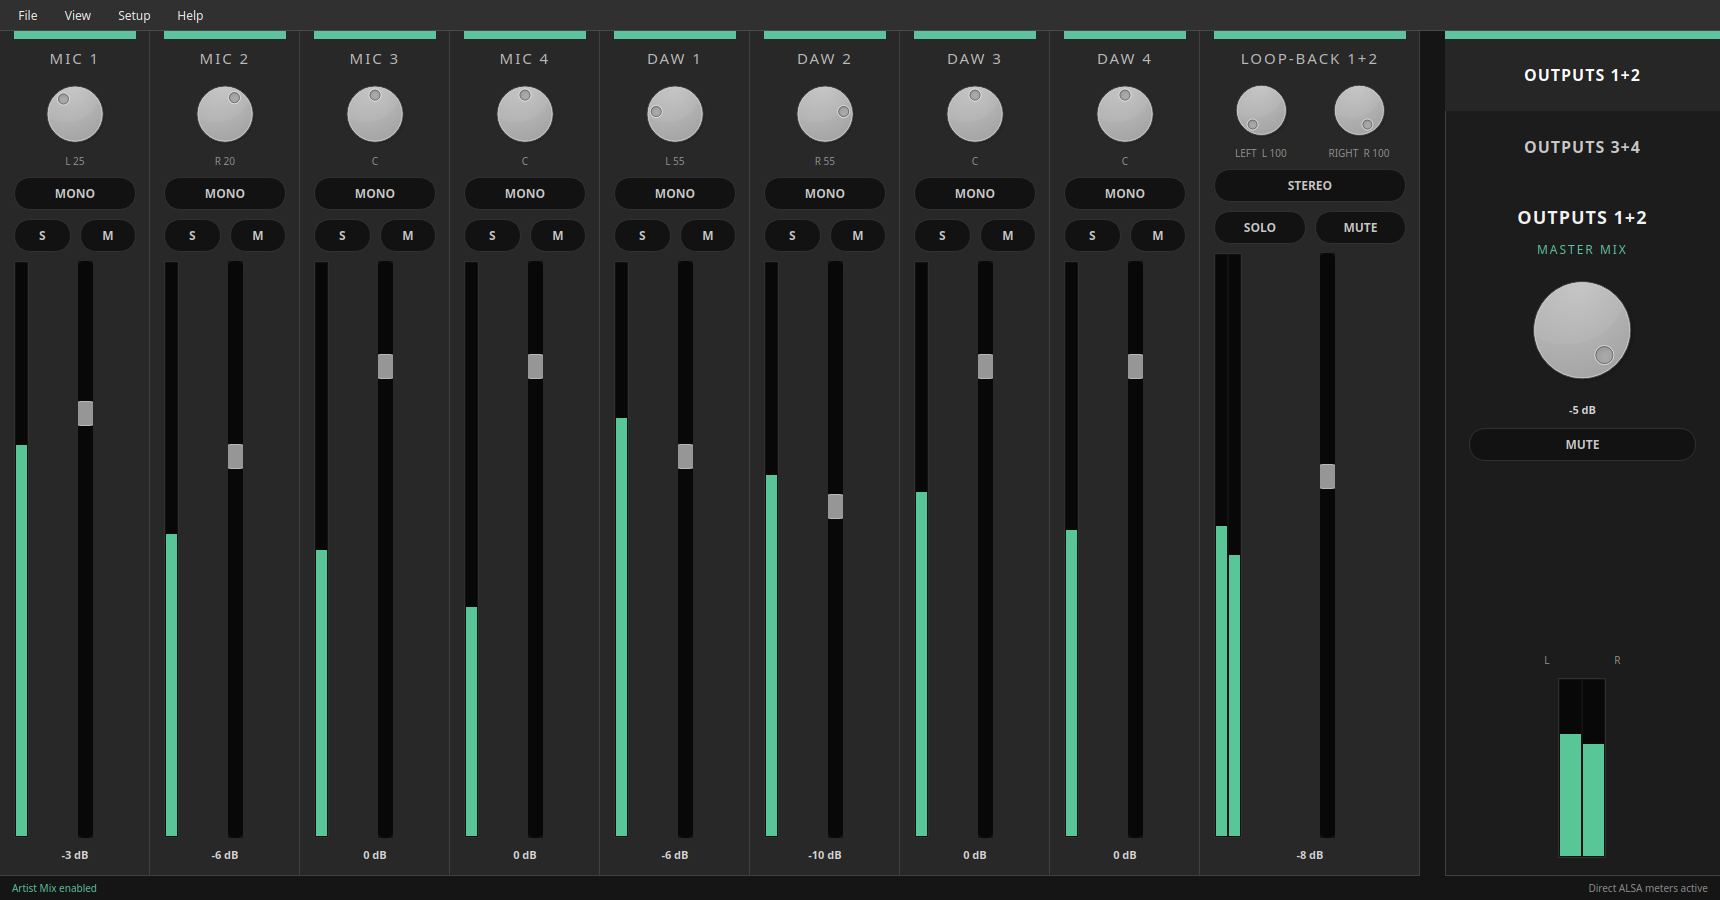
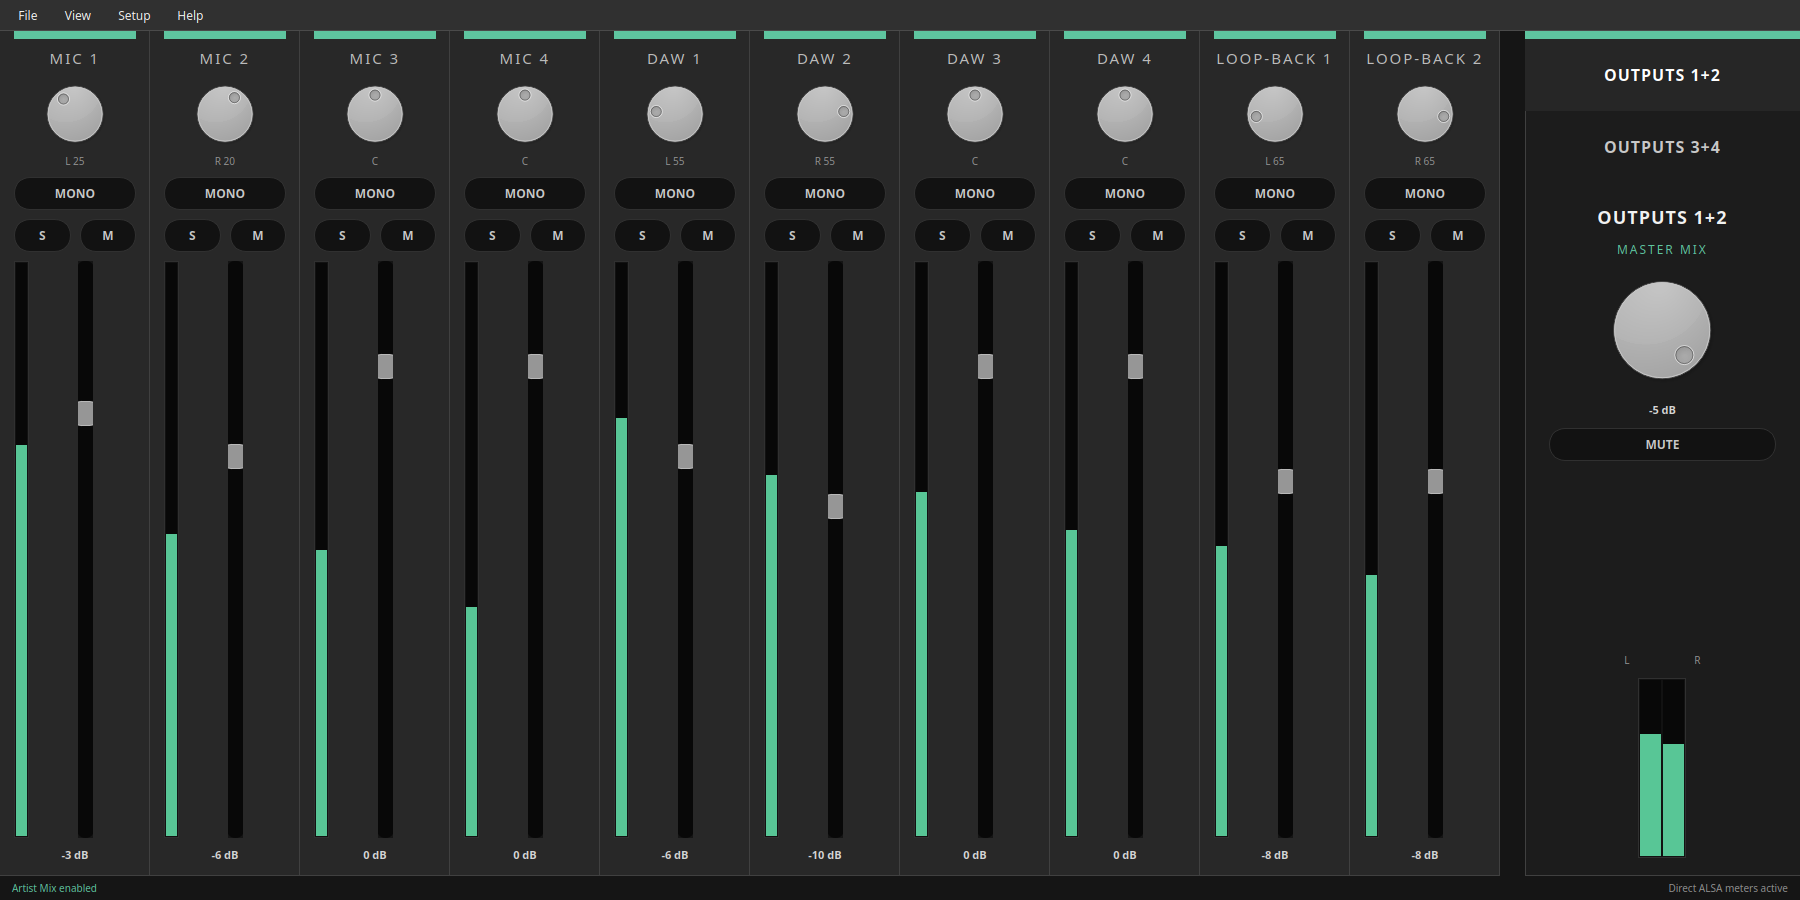
Split loopback into mono mixer strips

diff --git a/src/evoctl/ui.py b/src/evoctl/ui.py
@@ -138,10 +138,11 @@ MIXER_CHANNELS = (
     MixerChannel("DAW 2", (5,)),
     MixerChannel("DAW 3", (6,)),
     MixerChannel("DAW 4", (7,)),
-    MixerChannel("LOOP-BACK 1+2", (8, 9)),
+    MixerChannel("LOOP-BACK 1", (8,)),
+    MixerChannel("LOOP-BACK 2", (9,)),
 )
 
-MIX_LAYOUT_VERSION = 2
+MIX_LAYOUT_VERSION = 3
 CONFIGURATION_FORMAT = "evoctl-mixer-configuration"
 CONFIGURATION_VERSION = 1
 
@@ -805,6 +806,18 @@ class MainWindow(QMainWindow):
                 if sources in by_sources:
                     raise ValueError(f"{key} contains duplicate source IDs")
                 by_sources[sources] = entry
+            legacy_loopback = by_sources.pop((8, 9), None)
+            if legacy_loopback is not None:
+                if (8,) in by_sources or (9,) in by_sources:
+                    raise ValueError(f"{key} contains duplicate loop-back channels")
+                legacy_pans = legacy_loopback.get("pans")
+                if not isinstance(legacy_pans, list) or len(legacy_pans) != 2:
+                    raise ValueError(f"{key} has an invalid paired loop-back pan")
+                for source, pan in zip((8, 9), legacy_pans, strict=True):
+                    channel = dict(legacy_loopback)
+                    channel["sources"] = [source]
+                    channel["pans"] = [pan]
+                    by_sources[(source,)] = channel
             if set(by_sources) != set(expected):
                 raise ValueError(f"{key} does not match the EVO 8 mixer layout")
 
@@ -965,7 +978,8 @@ class MainWindow(QMainWindow):
             (snapshot.playback[1],),
             (snapshot.playback[2],),
             (snapshot.playback[3],),
-            snapshot.capture[4:6],
+            (snapshot.capture[4],),
+            (snapshot.capture[5],),
         )
         any_solo = any(strip.solo.isChecked() for strip in self.input_strips)
         output_contributions: tuple[list[float], list[float]] = ([], [])
@@ -1061,7 +1075,7 @@ class MainWindow(QMainWindow):
         return f"mix/{pair}/strip/{strip}/{field}"
 
     def _migrate_mix_settings(self) -> None:
-        """Split saved DAW stereo strips into four mono strips once."""
+        """Migrate saved paired channels to the current all-mono layout."""
         if self.settings is None:
             return
         version = self.settings.value("state/version", 0, type=int)
@@ -1070,14 +1084,13 @@ class MainWindow(QMainWindow):
 
         fields = ("fader", "pan", "pan_left", "pan_right", "mute", "solo")
         for pair in (0, 1):
-            old: dict[int, dict[str, object]] = {}
-            for index in (4, 5, 6):
+            def read_state(index: int) -> dict[str, object]:
                 values: dict[str, object] = {}
                 for field in fields:
                     key = self._mix_key(pair, index, field)
                     if self.settings.contains(key):
                         values[field] = self.settings.value(key)
-                old[index] = values
+                return values
 
             def copy_common(source: dict[str, object], destination: int) -> None:
                 for field in ("fader", "mute", "solo"):
@@ -1086,35 +1099,55 @@ class MainWindow(QMainWindow):
                             self._mix_key(pair, destination, field), source[field]
                         )
 
-            for old_index, left_index, right_index in ((4, 4, 5), (5, 6, 7)):
-                source = old[old_index]
-                copy_common(source, left_index)
-                copy_common(source, right_index)
-                legacy_pan = source.get("pan")
-                left_pan = source.get("pan_left", legacy_pan if legacy_pan is not None else -100)
-                right_pan = source.get("pan_right", legacy_pan if legacy_pan is not None else 100)
+            if version < 2:
+                old = {index: read_state(index) for index in (4, 5, 6)}
+                for old_index, left_index, right_index in ((4, 4, 5), (5, 6, 7)):
+                    source = old[old_index]
+                    copy_common(source, left_index)
+                    copy_common(source, right_index)
+                    legacy_pan = source.get("pan")
+                    left_pan = source.get(
+                        "pan_left", legacy_pan if legacy_pan is not None else -100
+                    )
+                    right_pan = source.get(
+                        "pan_right", legacy_pan if legacy_pan is not None else 100
+                    )
+                    self.settings.setValue(
+                        self._mix_key(pair, left_index, "pan"), left_pan
+                    )
+                    self.settings.setValue(
+                        self._mix_key(pair, right_index, "pan"), right_pan
+                    )
+
+                loopback = old[6]
+                copy_common(loopback, 8)
+                legacy_pan = loopback.get("pan")
                 self.settings.setValue(
-                    self._mix_key(pair, left_index, "pan"), left_pan
+                    self._mix_key(pair, 8, "pan_left"),
+                    loopback.get(
+                        "pan_left", legacy_pan if legacy_pan is not None else -100
+                    ),
                 )
                 self.settings.setValue(
-                    self._mix_key(pair, right_index, "pan"), right_pan
+                    self._mix_key(pair, 8, "pan_right"),
+                    loopback.get(
+                        "pan_right", legacy_pan if legacy_pan is not None else 100
+                    ),
                 )
 
-            loopback = old[6]
-            copy_common(loopback, 8)
-            legacy_pan = loopback.get("pan")
-            self.settings.setValue(
-                self._mix_key(pair, 8, "pan_left"),
-                loopback.get(
+            if version < 3:
+                loopback = read_state(8)
+                copy_common(loopback, 8)
+                copy_common(loopback, 9)
+                legacy_pan = loopback.get("pan")
+                left_pan = loopback.get(
                     "pan_left", legacy_pan if legacy_pan is not None else -100
-                ),
-            )
-            self.settings.setValue(
-                self._mix_key(pair, 8, "pan_right"),
-                loopback.get(
+                )
+                right_pan = loopback.get(
                     "pan_right", legacy_pan if legacy_pan is not None else 100
-                ),
-            )
+                )
+                self.settings.setValue(self._mix_key(pair, 8, "pan"), left_pan)
+                self.settings.setValue(self._mix_key(pair, 9, "pan"), right_pan)
         self.settings.setValue("state/version", MIX_LAYOUT_VERSION)
         self.settings.sync()
 

diff --git a/tests/test_ui.py b/tests/test_ui.py
@@ -78,17 +78,28 @@ class UiReadbackTests(unittest.TestCase):
             [(4,), (5,), (6,), (7,)],
         )
         self.assertTrue(all(len(strip.pans) == 1 for strip in daw_strips))
+        loopback_strips = window.input_strips[8:10]
+        self.assertEqual(
+            [strip.spec.name for strip in loopback_strips],
+            ["LOOP-BACK 1", "LOOP-BACK 2"],
+        )
+        self.assertEqual(
+            [strip.spec.sources for strip in loopback_strips], [(8,), (9,)]
+        )
+        self.assertTrue(all(len(strip.pans) == 1 for strip in loopback_strips))
         window.close()
 
-    def test_loopback_stereo_pan_changes_channel_and_master_indication(self) -> None:
+    def test_loopback_mono_pans_change_channel_and_master_indication(self) -> None:
         window = MainWindow(
             Evo8Controller(DemoTransport()), connected=True, status_text="TEST"
         )
         window.input_strips[8].fader.setValue(-12)
-        window.input_strips[8].pans[1].setValue(100)
+        window.input_strips[8].pans[0].setValue(-100)
+        window.input_strips[9].fader.setValue(-12)
+        window.input_strips[9].pans[0].setValue(100)
         window._meter_reader = FixedMeterReader(
             MeterSnapshot(
-                capture=(SILENCE_DB,) * 5 + (-14.0,),
+                capture=(SILENCE_DB,) * 4 + (-10.0, -14.0),
                 playback=(SILENCE_DB,) * 6,
                 capture_seen=True,
                 playback_seen=True,
@@ -97,19 +108,23 @@ class UiReadbackTests(unittest.TestCase):
 
         window._update_meters()
 
-        self.assertEqual(window.input_strips[8].meter._levels, [SILENCE_DB, -26.0])
-        self.assertEqual(window.master.meter._levels, [SILENCE_DB, -26.0])
+        self.assertEqual(window.input_strips[8].meter._levels, [-22.0])
+        self.assertEqual(window.input_strips[9].meter._levels, [-26.0])
+        self.assertEqual(window.master.meter._levels, [-22.0, -26.0])
         window.close()
 
-    def test_loopback_stereo_pans_write_all_four_crosspoints(self) -> None:
+    def test_loopback_mono_strips_write_independent_crosspoints(self) -> None:
         controller = Evo8Controller(DemoTransport())
         window = MainWindow(controller, connected=True, status_text="TEST")
-        strip = window.input_strips[8]
-        strip.fader.setValue(-12)
-        strip.pans[0].setValue(-100)
-        strip.pans[1].setValue(100)
+        left = window.input_strips[8]
+        left.fader.setValue(-12)
+        left.pans[0].setValue(-100)
+        right = window.input_strips[9]
+        right.fader.setValue(-12)
+        right.pans[0].setValue(100)
 
-        strip.write_effective_level(False)
+        left.write_effective_level(False)
+        right.write_effective_level(False)
 
         self.assertEqual(controller.read_mix_level(8, 0), -12)
         self.assertEqual(controller.read_mix_level(8, 1), SILENCE_DB)
@@ -220,7 +235,7 @@ class UiReadbackTests(unittest.TestCase):
             )
             second.close()
 
-    def test_saved_stereo_daw_settings_migrate_to_four_mono_strips(self) -> None:
+    def test_paired_settings_migrate_to_all_mono_strips(self) -> None:
         with tempfile.TemporaryDirectory() as directory:
             settings = QSettings(
                 str(Path(directory) / "old-evoctl.ini"), QSettings.Format.IniFormat
@@ -252,10 +267,9 @@ class UiReadbackTests(unittest.TestCase):
             self.assertEqual(window.input_strips[7].fader.value(), -20)
             self.assertEqual(window.input_strips[7].pans[0].value(), 80)
             self.assertEqual(window.input_strips[8].fader.value(), -8)
-            self.assertEqual(
-                tuple(pan.value() for pan in window.input_strips[8].pans),
-                (-100, 100),
-            )
+            self.assertEqual(window.input_strips[8].pans[0].value(), -100)
+            self.assertEqual(window.input_strips[9].fader.value(), -8)
+            self.assertEqual(window.input_strips[9].pans[0].value(), 100)
             window.close()
 
     def test_mixer_configuration_round_trip_restores_both_mixes(self) -> None:
@@ -325,6 +339,55 @@ class UiReadbackTests(unittest.TestCase):
             with self.assertRaisesRegex(ValueError, "not an evoctl"):
                 window.open_mixer_configuration(configuration)
             window.close()
+
+    def test_paired_loopback_configuration_opens_as_two_mono_channels(self) -> None:
+        with tempfile.TemporaryDirectory() as directory:
+            root = Path(directory)
+            configuration = root / "paired-loopback.evoctl.json"
+            first = MainWindow(
+                Evo8Controller(DemoTransport()),
+                connected=True,
+                status_text="TEST",
+                settings=QSettings(
+                    str(root / "first.ini"), QSettings.Format.IniFormat
+                ),
+            )
+            first.input_strips[8].fader.setValue(-9)
+            first.input_strips[8].pans[0].setValue(-60)
+            first.input_strips[9].fader.setValue(-9)
+            first.input_strips[9].pans[0].setValue(70)
+            first.save_mixer_configuration(configuration)
+            document = json.loads(configuration.read_text(encoding="utf-8"))
+            for entries in document["mixes"].values():
+                left = next(entry for entry in entries if entry["sources"] == [8])
+                right = next(entry for entry in entries if entry["sources"] == [9])
+                paired = dict(left)
+                paired["name"] = "LOOP-BACK 1+2"
+                paired["sources"] = [8, 9]
+                paired["pans"] = [left["pans"][0], right["pans"][0]]
+                entries.remove(left)
+                entries.remove(right)
+                entries.append(paired)
+            configuration.write_text(
+                json.dumps(document, indent=2) + "\n", encoding="utf-8"
+            )
+
+            second = MainWindow(
+                Evo8Controller(DemoTransport()),
+                connected=True,
+                status_text="TEST",
+                settings=QSettings(
+                    str(root / "second.ini"), QSettings.Format.IniFormat
+                ),
+            )
+            second.open_mixer_configuration(configuration)
+
+            self.assertEqual(second.input_strips[8].fader.value(), -9)
+            self.assertEqual(second.input_strips[8].pans[0].value(), -60)
+            self.assertEqual(second.input_strips[9].fader.value(), -9)
+            self.assertEqual(second.input_strips[9].pans[0].value(), 70)
+            first.close()
+            second.close()
 
 
 if __name__ == "__main__":

diff --git a/src/evoctl/__init__.py b/src/evoctl/__init__.py
@@ -1,3 +1,3 @@
 """Linux control software for Audient EVO interfaces."""
 
-__version__ = "0.1.1"
+__version__ = "0.1.2"

diff --git a/README.md b/README.md
@@ -126,7 +126,7 @@ configuration, and usbmon permission helper:
 ```sh
 ./packaging/debian/build-deb.sh
 sudo apt install linux-headers-$(uname -r)
-sudo apt install ./dist/evoctl_0.1.1_all.deb
+sudo apt install ./dist/evoctl_0.1.2_all.deb
 ```
 
 The package declares Python, PySide6 QtWidgets, DKMS, udev, make, and kmod as
@@ -147,8 +147,7 @@ buttons and encoder appear in the UI without reopening it.
 The main window follows the official EVO Mixer workflow instead of presenting
 the 10×4 hardware matrix directly:
 
-- Mic 1–4 and DAW 1–4 appear as independent mono strips; Loop-back 1+2
-  remains paired;
+- Mic 1–4, DAW 1–4, and Loop-back 1–2 appear as ten independent mono strips;
 - Outputs 1+2 is the green-accented Master Mix;
 - `Setup > Enable Artist Mix` enables the independent, yellow-accented mix for
   Outputs 3+4;
@@ -157,10 +156,9 @@ the 10×4 hardware matrix directly:
 
 Mixer faders and pan controls are backed by the EVO 8 mixer-unit crosspoints;
 the matrix is an implementation detail and is not shown as a separate routing
-page. Every microphone and DAW strip has its own pan and fader. The remaining
-paired Loop-back strip has independent `LEFT` and `RIGHT` pan controls and one
-shared fader. All four loop-back crosspoints are written, so either source can
-be placed anywhere in the selected output mix.
+page. Every microphone, DAW, and loop-back source has its own pan, fader, mute,
+and solo controls. Each source writes both output crosspoints, so it can be
+placed anywhere in the selected output mix.
 
 The apparent fader range also follows the official application. The device
 range is −128 to +6 dB, but the slider uses the recovered 179-step audio taper
@@ -175,9 +173,8 @@ reflect audio sent from the DAW to the EVO. Direct-monitor audio mixed only
 inside the hardware is not present in that playback stream.
 
 Channel meters are post-fader for the selected mix: fader, pan, mute, and solo
-all affect the indication. The paired loop-back strip's two meters show its
-panned L/R mix, including crossfeed when either channel is moved away from its
-default side.
+all affect the indication. Loop-back 1 and Loop-back 2 are metered independently
+and their pan positions are reflected in the master indication.
 The master L/R meter combines the active source levels and then applies the
 selected output volume and mute. With one active source its dB movement is
 exact; with several simultaneous sources the master uses a power-sum estimate

diff --git a/docs/reverse-engineering.md b/docs/reverse-engineering.md
@@ -186,13 +186,13 @@ official EVO 8 mixer documentation and screenshots are used as the visual and
 workflow reference: the user works with source channel strips and a selected
 output mix, not a raw crosspoint table.
 
-The current EVO 8 layout deliberately exposes the ten matrix sources as four
-mono microphone strips, four mono DAW strips, and one paired Loop-back 1+2
-strip. This follows the requested Linux workflow rather than reproducing the
-official DAW stereo/mono linking switch. Destinations 0–1 form the green Master
-Mix for Outputs 1+2; destinations 2–3 form the optional yellow Artist Mix for
-Outputs 3+4. Mic preamp controls are revealed from the View menu, and Artist
-Mix is enabled from the Setup menu.
+The current EVO 8 layout deliberately exposes all ten matrix sources as mono:
+four microphone strips, four DAW strips, and two loop-back strips. This follows
+the requested Linux workflow rather than reproducing the official stereo/mono
+linking switch. Destinations 0–1 form the green Master Mix for Outputs 1+2;
+destinations 2–3 form the optional yellow Artist Mix for Outputs 3+4. Mic
+preamp controls are revealed from the View menu, and Artist Mix is enabled from
+the Setup menu.
 
 Reference: <https://docs.audient.com/evo8/evo-mixer-configurations/>
 
